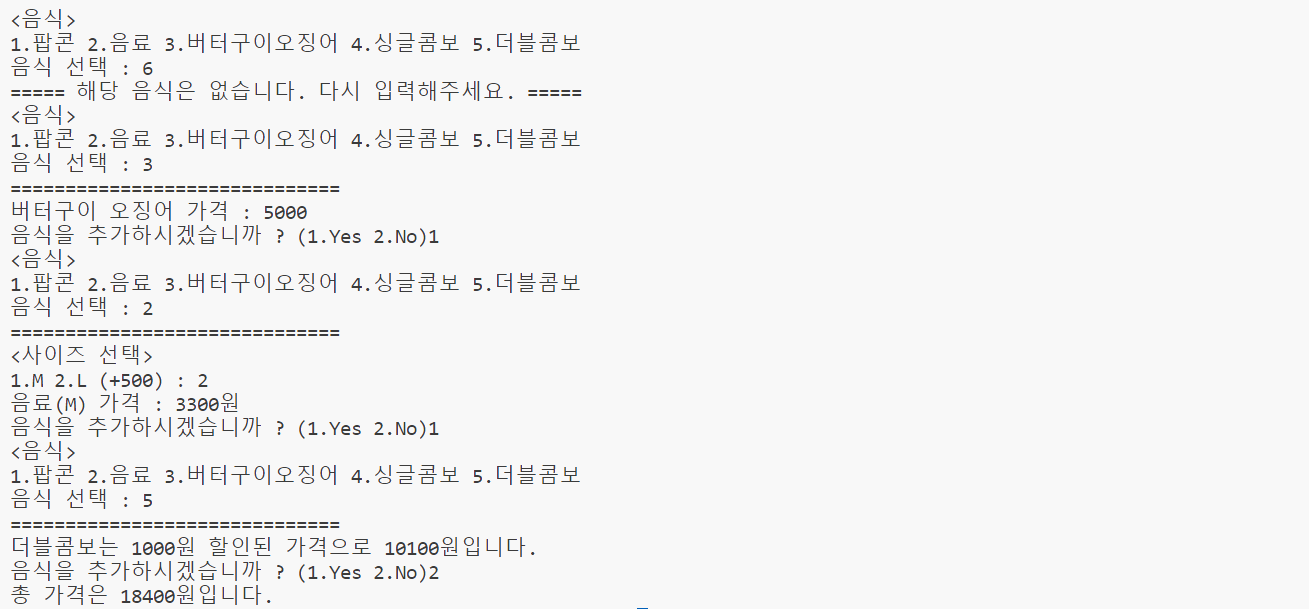
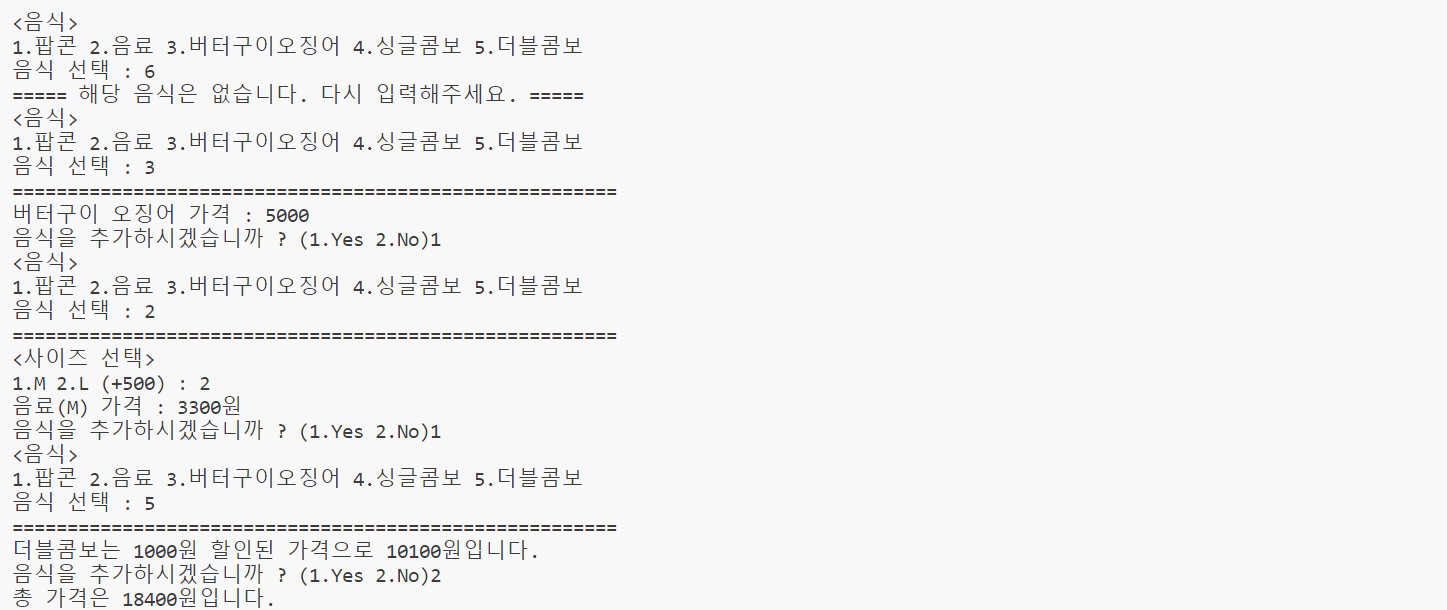
20231109

Changed region(s): [[0.0, 0.0, 0.4584, 0.9984], [0.4889, 0.9984, 0.5195, 1.0]]

diff --git a/01. PYTHON_PROJECT/food.py b/01. PYTHON_PROJECT/food.py
@@ -14,7 +14,7 @@ def store():
 음식 선택 : '''))
         
         if food_num in food:
-            print('='*30)
+            print('='*55)
             while True:
 # ========================== 사이즈 선택 =================================
                 if food_num==1:
